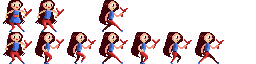
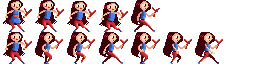
Added new ranger art

diff --git a/client/src/characters/ranger.cpp b/client/src/characters/ranger.cpp
@@ -178,6 +178,10 @@ void RangerCharacter::Step(double time)
     if (IsGrounded() && !(state_ & (kMoveLeft | kMoveRight))) {
         animation_->SetState("stand");
     }
+
+    if (launch_) {
+        animation_->SetState("shoot");
+    }
 }
 
 //
@@ -187,7 +191,7 @@ void RangerCharacter::Render() const
     Character::Render();
     
     // Draw the launch arrow if necessary
-    if (!launch_ || fixed_) return;
+    if (hidden_ || !launch_ || fixed_) return;
     double dir = direction_ == kLeft ? -1 : 1; 
     b2Vec2 pos = body_->GetPosition();
     glPushMatrix();
